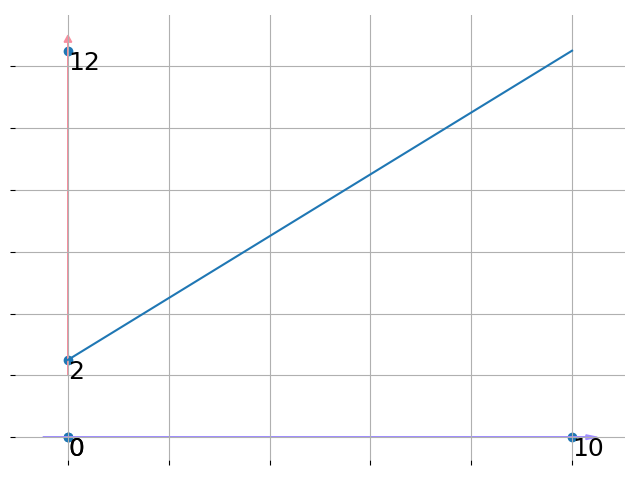
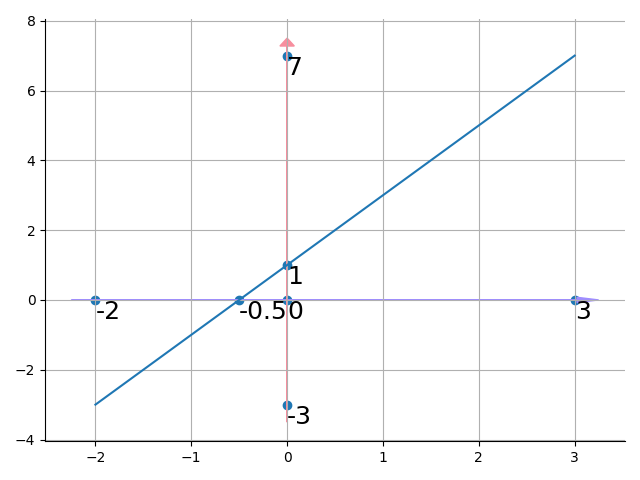
intercept

diff --git a/graphic/plot.py b/graphic/plot.py
@@ -26,11 +26,8 @@ class Plot(DoStats):
             t='error'
             annos.append({'position': item, 'txt': t, 'color': 'red','fontsize':18,'center':'left','vertical':'bottom' if item[1]<predictY[i] else 'top'})
         return annos
-    def pltCartesianCoordinate(self,hideAxis=False,hasLimit=False):
+    def pltCartesianCoordinate(self,hideAxis=False,hasLimit=False,intercepts=None):
         ax = self.ax
-        # scatter(x,y, s=100 ,marker='o', c=color)
-        # [ plot( [dot_x,dot_x] ,[0,dot_y], '-', linewidth = 3 ) for dot_x,dot_y in zip(x,y) ] 
-        # [ plot( [0,dot_x] ,[dot_y,dot_y], '-', linewidth = 3 ) for dot_x,dot_y in zip(x,y) ]
         left,right = ax.get_xlim()
         low,high = ax.get_ylim()
         arrow( left, 0, right -left, 0, length_includes_head = True, head_width = 0.15,color='#9F8DFF' )
@@ -44,35 +41,43 @@ class Plot(DoStats):
             maxY=max(y)
             xs=[0,minX,maxX,0,0]
             ys=[0,0,0,minY,maxY]
+            if intercepts:
+                xs+=list(map(lambda item:item[0],intercepts))
+                ys+=list(map(lambda item:item[1],intercepts))
             self.scatter(xs,ys)
             annos=[]
             for item in zip(xs,ys):
                 t=list(filter(lambda v:v!=0,item))
-                annos.append({'position': item, 'txt': int(t[0]) if len(t) else 0, 'color': 'black','fontsize':18,'center':'left','vertical':'top'})
+                if len(t):
+                    intT=int(t[0])
+                    if intT==t[0]:
+                        txt=intT
+                    else:
+                        txt=t[0]
+                else:
+                    txt= 0
+                annos.append({'position': item, 'txt': txt, 'color': 'black','fontsize':18,'center':'left','vertical':'top'})
             self.drawTxt(annos)
         if hideAxis:
             ax.spines['left'].set_visible(False)
             ax.spines['bottom'].set_visible(False)
-            # for major ticks
-            # ax.set_xticks([])
-            # ax.set_yticks([])
-            # for minor ticks
-            # ax.set_xticks([], minor=True)
-            # ax.set_yticks([], minor=True)
             plt.tick_params(
                 axis='both',          # changes apply to the x-axis
                 which='both',      # both major and minor ticks are affected
-                # bottom=False,      # ticks along the bottom edge are off
-                # left=False,
-                # top=False,         # ticks along the top edge are off
                 labelbottom=False, # labels along the bottom edge are off
                 labelleft=False
-            ) # labels along the bottom edge are off
+            ) 
         grid()
         self.setImgName()
         return self
-    def getLinspaceData(self,start,stop,count):
-        return np.linspace(start,stop,count)
+    def getLinspaceData(self,start,stop,count,append=None):
+        lin=np.linspace(start,stop,count)
+        if append:
+            if not isinstance(append,list):
+                append=[append]
+            for item in append:
+                lin=np.append(lin,item)
+        return lin
     def grid(self,x=False,y=False,color='#7F1299'):
         y and self.ax.yaxis.grid(c=color)        
         x and self.ax.xaxis.grid(c=color)        

diff --git a/test/fun/test_Linear_Equations.py b/test/fun/test_Linear_Equations.py
@@ -1,0 +1,32 @@
+import sys
+import os
+
+from numpy.lib.function_base import append
+PACKAGE_PARENT = '../..'
+SCRIPT_DIR = os.path.dirname(os.path.realpath(
+    os.path.join(os.getcwd(), os.path.expanduser(__file__))))
+sys.path.append(os.path.normpath(os.path.join(SCRIPT_DIR, PACKAGE_PARENT)))
+import unittest,numpy as np
+from graphic.plot import Plot
+from mathMethods.doMath import DoMath
+from utilities import getPath,parseNumber
+class TDD_TEST_LINEAR_EQUATIONS(unittest.TestCase):
+    @classmethod
+    def setUpClass(cls):
+        class PlotAI(Plot,DoMath):
+            def __init__(self,arg=None):
+                Plot.__init__(self)
+        cls.d = PlotAI()
+    def test_test_Linear_Equations(self):
+        equation='y = 2x + 1'
+        coefs=self.d.getCoefs(equation)
+        intercepts=self.d.getIntercept(coefs)
+        
+        x=self.d.getLinspaceData(-2,3,50)
+        y=self.d.getYByFunc(x,coefs)
+        self.d\
+            .plotLine(x,y)\
+            .pltCartesianCoordinate(hasLimit=True,intercepts=intercepts)\
+            .saveAndShow()
+if __name__ == '__main__':
+    unittest.main()

diff --git a/mathMethods/doMath.py b/mathMethods/doMath.py
@@ -1,6 +1,19 @@
-import math,re
+import math,re,numpy as np
 from .doNp import DoNumpy
 class DoMath(DoNumpy):
+    def getIntercept(self,coefs):
+        xIntercept = self.solve_linear([coefs,[0,coefs[1]]],[0,coefs[1]])[0]
+        yIntercept = self.solve_linear([coefs,[coefs[0],0]],[0,-coefs[1]])[1]
+        print(xIntercept,yIntercept)
+        return [[xIntercept,0],[0,yIntercept]]
+    def solve_linear(self,A,B):
+        if len(np.array(A).shape) == 1:
+            A=[A]
+        return np.linalg.solve(A,B)
+    def getCoefs(self,s):
+        l=re.findall(r'\d+(?=x)|\d+(?!x)',s)
+        intL=map(lambda item:float(item),l)
+        return list(intL)
     def getVariables(self,l):
         if isinstance(l,(int,float)):
             return 0

diff --git a/create-with-arg.py b/create-with-arg.py
@@ -31,15 +31,14 @@ SCRIPT_DIR = os.path.dirname(os.path.realpath(
 sys.path.append(os.path.normpath(os.path.join(SCRIPT_DIR, PACKAGE_PARENT)))
 import unittest{2}
 from graphic.plot import Plot
-from mysql_data.decorators_func import singleton
 from utilities import getPath,parseNumber
 class TDD_{0}(unittest.TestCase):
-    @singleton
-    def setUp(self):
+    @classmethod
+    def setUpClass(cls):
         class PlotAI(Plot):
             def __init__(self,arg=None):
                 Plot.__init__(self)
-        self.__class__.p = PlotAI()
+        cls.d = PlotAI()
     def test_{1}(self):
         self.assertEqual(True,1)
 if __name__ == '__main__':
